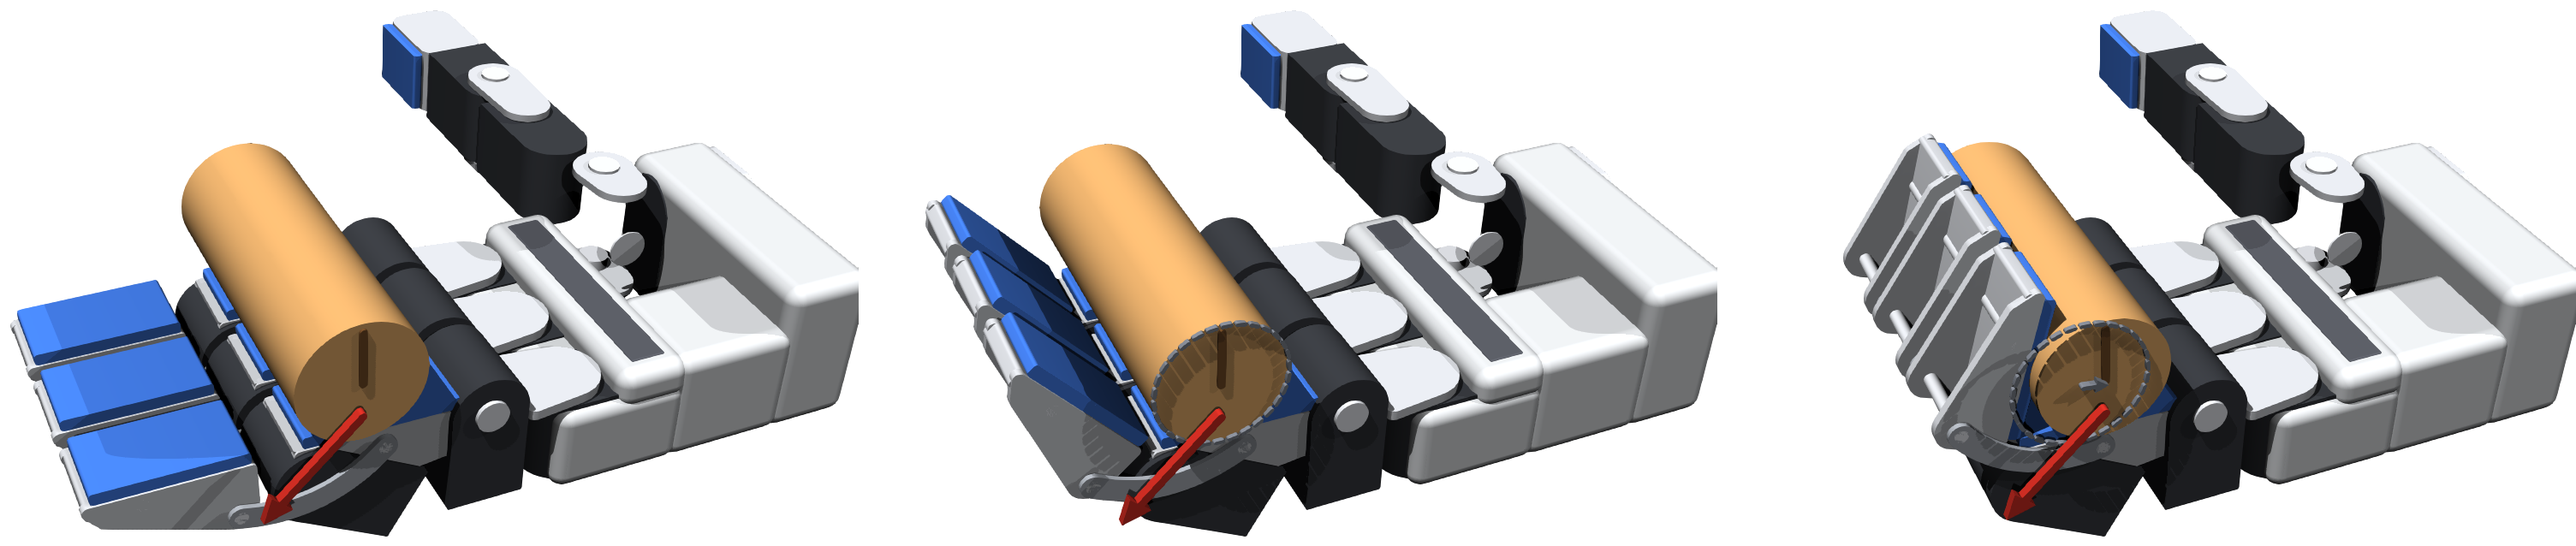
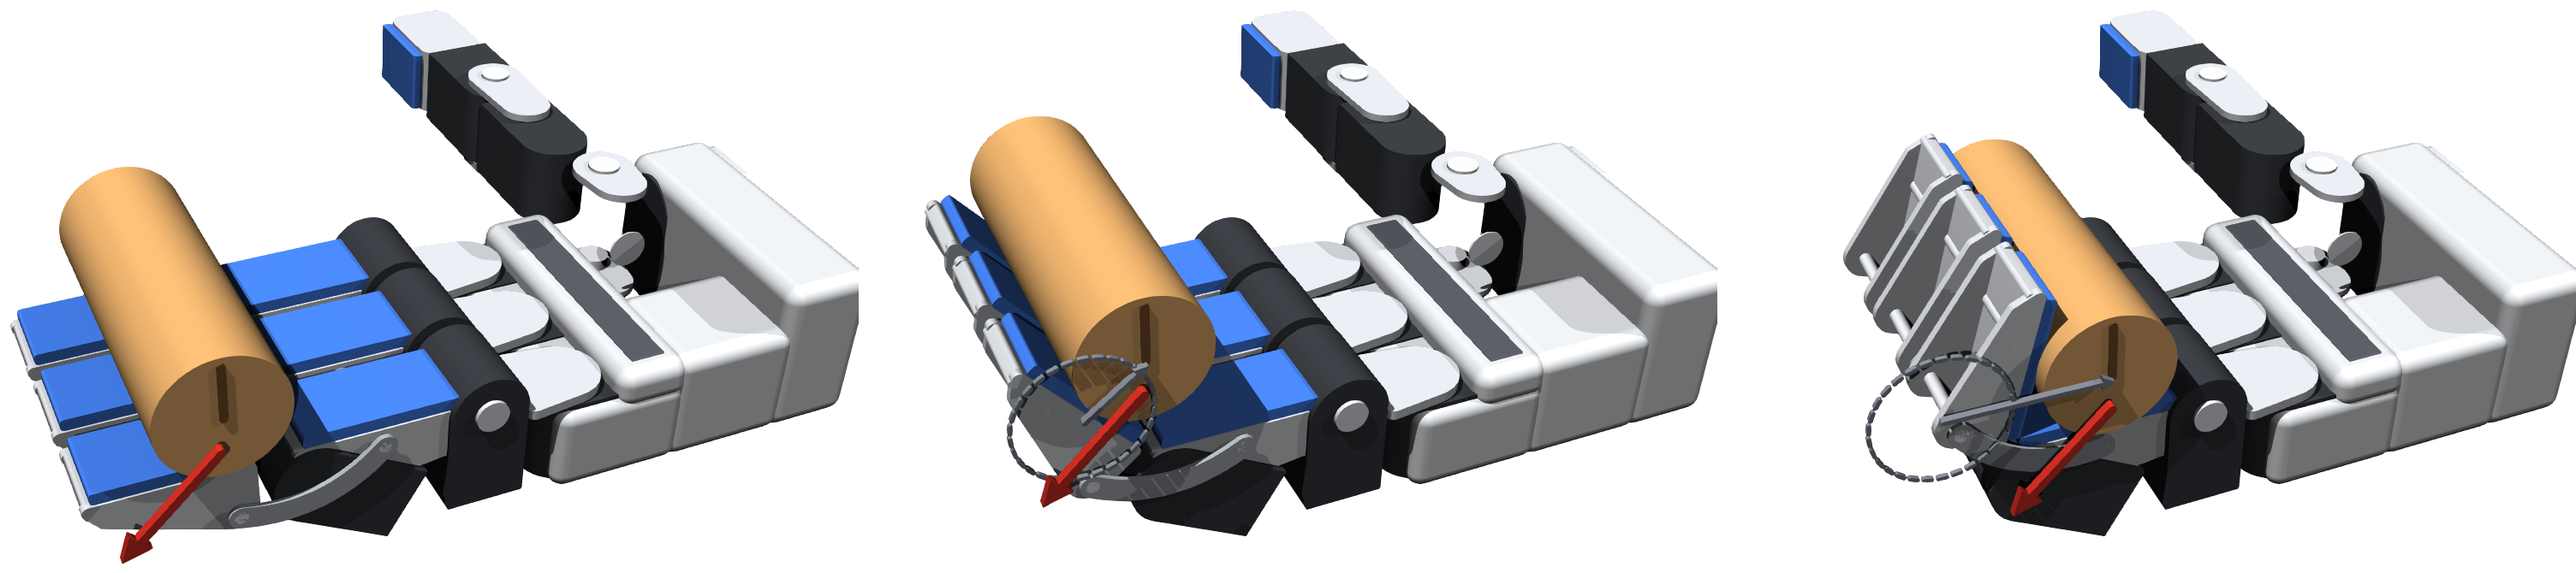
Paper: Fig. 4 with four tasks (hook pull to the text), the acquisition strip drawn from the distal pad, and the three morphologies named CoDe, Skeleton and Coverage in the figure plan

diff --git a/paper/figures/fig_paper.py b/paper/figures/fig_paper.py
@@ -7,10 +7,10 @@ Figure plan (user, 2026-11-24): physical meaning first; no trend lines, Pareto f
           the skeleton frame and from the contact frame. (a) and (c) are schematics from the closed-form model.
   Fig. 3  design validation (Studies 1, 2): (a) optimized geometry at 120 deg, 7 mm (evaluator) and coverage dots;
           (b) reference and redesign paths at 120 deg, 3 -> 7 mm, and contact-deviation dots with the fixed-axis value.
-  Fig. 4  scientific validation (Study 3): five Drake tasks (power-grasp hold, grasp acquisition, hook pull, fingertip
-          dial, box pivot): the task, R's and U's response minus O's, the bias in the friction effect, and each task's
-          error E for R and U with point and hydroelastic contact.
-  Table I contact-model robustness (R and U errors), written as LaTeX to sections/table_robust.tex.
+  Fig. 4  scientific validation (Study 3): four Drake tasks (power-grasp hold, grasp acquisition, fingertip dial, box
+          pivot): the task, the three morphologies' (CoDe, Skeleton, Coverage) response minus O's, the bias in
+          the friction effect, and each task's error E for each with point and hydroelastic contact.
+  Table I contact-model robustness (CoDe, Skeleton and Coverage errors), written as LaTeX to sections/table_robust.tex.
 Colours: CFL / R blue, 2R-remote / U amber, 2R-DD / reference grey, RCJ teal, pole purple.
 """
 import csv
@@ -650,7 +650,7 @@ def task_icon(ax, kind):
 
 
 def fig4():
-    """Study 3: five Drake tasks under O's reused command. Per task: three frames; R and U's object response minus O's
+    """Study 3: four Drake tasks under O's reused command (the hook pull, 38, is in the text: paper/SSoT.md 6.1). Per task: three frames; R and U's object response minus O's
     over E's pairs (median, quartiles; friction 1.3 circles, 2.0 diamonds); each redesign's friction effect minus O's;
     and under the bottom panel each task's error E (median |bias| over placements) for CoDe, Skeleton and Coverage with point
     and hydroelastic contact. Data: report/study3/data/fig4_sync.json (fig4_sync.py)."""
@@ -662,7 +662,6 @@ def fig4():
              "load deviation (N)", "effect bias (N)"),
             ("Grasp acquisition", "acquire", "grasp_acquisition.png", "time (s)", "drawn-in deviation (mm)",
              "effect bias (mm)"),
-            ("Hook pull", "hook", "hook_pull.png", "bar displacement (mm)", "load deviation (N)", "effect bias (N)"),
             ("Fingertip dial", "dial", "fingertip_disk.png", "time (s)", "rotation deviation (deg)",
              "effect bias (deg)"),
             ("Box pivot", "pivot", "fingertip_pivot.png", "time (s)", "tilt deviation (deg)",

diff --git a/paper/SSoT.md b/paper/SSoT.md
@@ -158,7 +158,7 @@ In the introduction, "the joints and links" stands for the kinematic layout; no 
 
 Font: Helvetica Light for figure text (bold and math italic in Nimbus Sans, which the Light cut lacks). Physical meaning first: no trend lines, Pareto fronts or statistics (ρ, p) in figures; statistics, the selection rule
 and coverage retention go in the text. White background, thin technical linework, LaTeX-style math, restrained
-colour: CFL / R blue, 2R-remote / U amber, 2R-DD / reference grey, RCJ teal, pole purple. Final plots come from the
+colour: CFL / CoDe blue, 2R-remote amber, 2R-DD / reference grey, RCJ teal, pole purple; in Study 3 the three morphologies are CoDe blue, Skeleton teal, Coverage warm red. Final plots come from the
 evaluator and the raw CSV/JSON (`paper/figures/fig_paper.py`), never from hand-drawn values.
 
 | Figure | Role | Content |
@@ -166,9 +166,9 @@ evaluator and the raw CSV/JSON (`paper/figures/fig_paper.py`), never from hand-d
 | Fig. 1 | overview | the hand manipulating (USD), the CFL finger (CAD) with room for interfaces, contact- vs skeleton-centred redesign, interfaces incl. NARI-Touch |
 | Fig. 2 | kinematic principle (double column, 45–50 mm) | (a) clearance set by the pole, (b) achievable poles (CFL, RCJ, fixed axis), (c) motion seen from the skeleton frame and the contact frame; no mechanism detail |
 | Fig. 3 | design validation (double column, 65–75 mm) | (a) optimized geometry at 120°, 7 mm (evaluator: pads light, cylinder-holding surface dark, mechanism grey, extended + flexed) and coverage dots; (b) reference–redesign paths at 120°, 3→7 mm, and Δ_contact dots with the fixed-axis value dashed |
-| Fig. 4 | scientific validation (double column, 70–80 mm) | one column per task: the task, R's and U's error, every redesign's error against Δ_contact |
+| Fig. 4 | scientific validation (double column, 70–80 mm) | one column per task: the task and the three morphologies, CoDe, Skeleton and Coverage, compared with O (never R or U in a figure or the text). Four tasks (user, 2026-11-27): power-grasp hold, grasp acquisition, fingertip dial, box pivot, the tasks that pass in both contact models without a caveat. The hook pull (38) goes in the text in one sentence (point contact holds; under hydroelastic contact the force gate rejects Coverage). The acquisition frames start the cylinder on the open finger's distal pad (`render_acquire_tip.py`, a drawing start; the caption says the measured starts are 3–6 mm from the grasp until experiment 23b runs) |
 | Fig. 2(b) bounds | every joint's achievable-pole region uses the same size rule as the CFL's design space (pivots on the link line within the finger; RCJ 2r <= 90 mm); no extra cap on any joint |
-| Table I | contact-model robustness | R and U errors per contact model (medians per design's valid conditions, not matched condition by condition) |
+| Table I | contact-model robustness | CoDe, Skeleton and Coverage errors per contact model (medians per design's valid conditions, not matched condition by condition) |
 
 ## 7. Numbers and their sources
 
